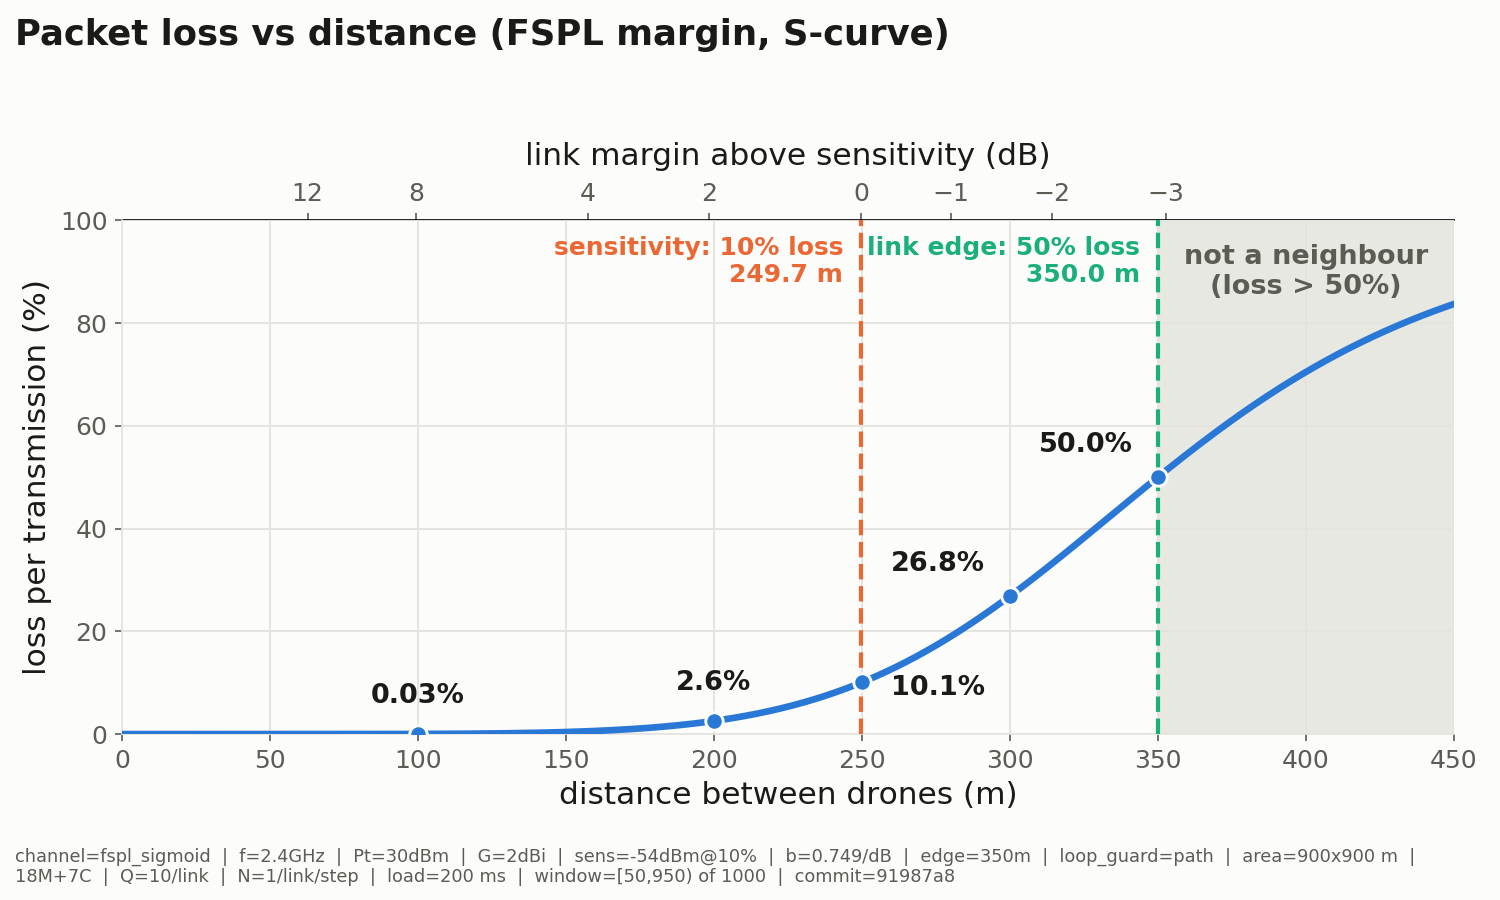
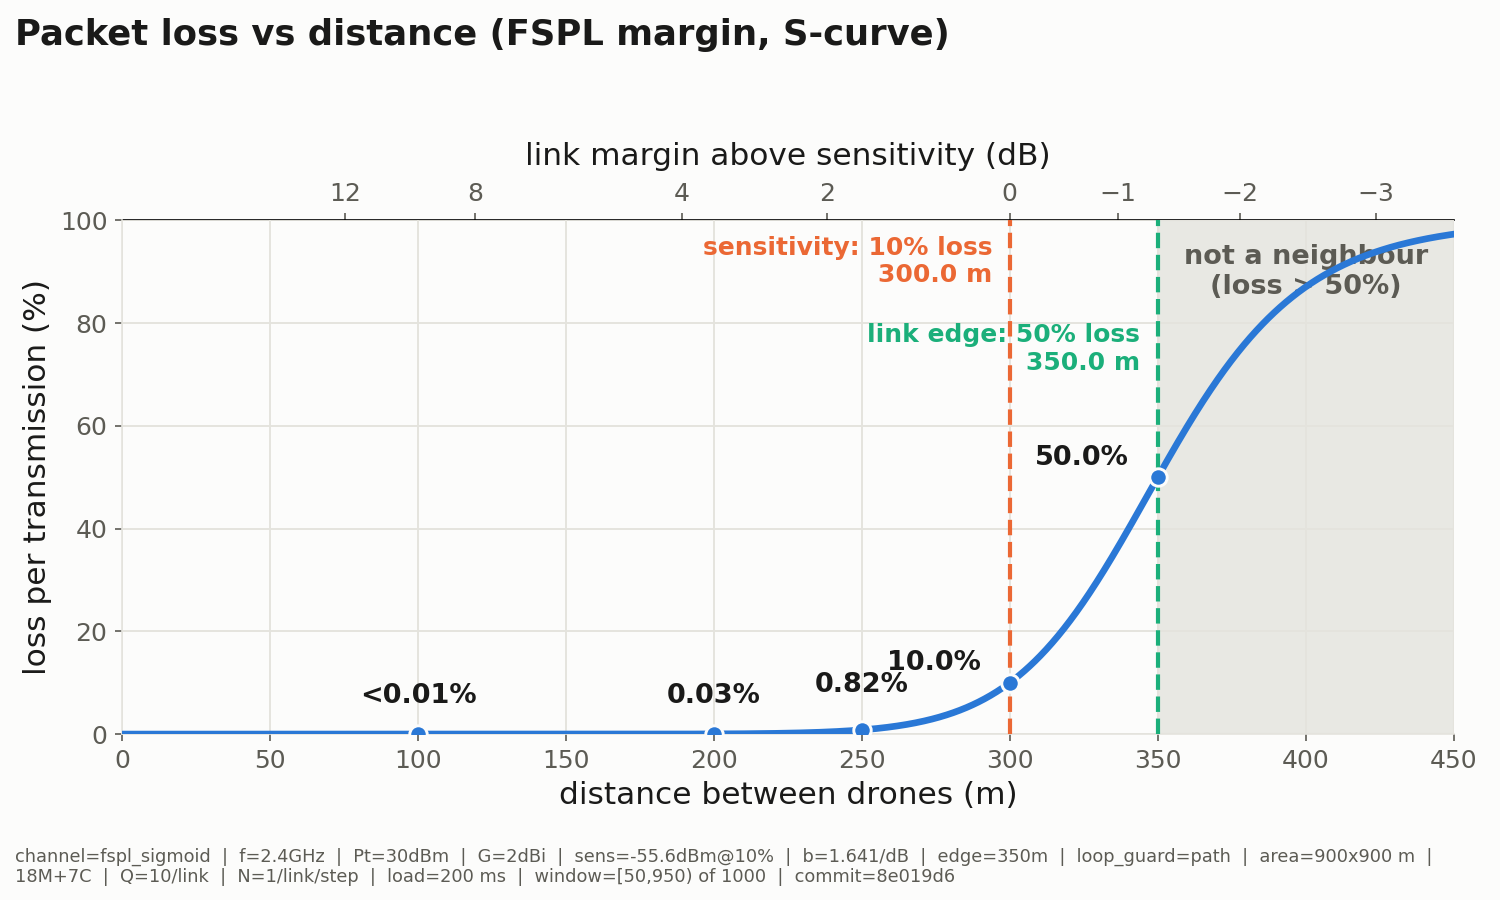
Phase 1a re-run on the steeper curve
160 runs, views_agree in all of them, every output stamped 8e019d6 with no
-dirty.

greedy 13.87 / 13.84 / 28.32 / 48.41 % at 1000/500/200/100 ms, all of it on
the channel at the two light loads; random 63.99 / 63.89 / 63.79 / 64.09 %.
greedy - random is -50.12 / -50.05 / -35.46 / -15.68 points, greedy lower on
20/20 placements at every load.

Every one of those 1280 fields is bit-identical to the "300" rows of the
check_curve run, largest difference exactly 0 — so refitting (A, b) against
the old sensitivity and moving the sensitivity with A = 9 are the same curve
in floating point, not just in algebra.

The edge scan's geometry columns are bit-identical to the old curve, which
is the point: the 350 m edge did not move, so no layout did either.

CLAUDE.md's Status now says plainly that Phase 1b is stale until the RL
agent is retrained, and the working-load paragraph carries the new cause
split (at 200 ms queue_full 14.51% against channel 13.81%).

diff --git a/CLAUDE.md b/CLAUDE.md
@@ -142,12 +142,12 @@ not to be reused, and the same holds for the Phase-2 agents.
   where the network is congested (queue_full drops are a real part of
   the loss) but not yet saturated (greedy beats random on every
   placement). Chosen by the team after running all four loads, and
-  re-checked after the channel and the greedy change: at 200 ms
-  greedy loses 10.29% of its packets to full queues while the channel
-  is still the main cause (24.56%); at 100 ms full queues take over
-  (29.05% against 23.68%). Greedy beats random on 20/20 placements at
-  every load, so the old "18/20 at 100 ms" saturation argument no
-  longer applies under classic greedy.
+  re-checked after the channel, the greedy and the curve changes: at
+  200 ms greedy loses 14.51% of its packets to full queues against
+  13.81% on the channel, so queues and the channel cost about the same;
+  at 100 ms full queues dominate (35.05% against 13.35%). Greedy beats
+  random on 20/20 placements at every load, so the old "18/20 at 100 ms"
+  saturation argument no longer applies under classic greedy.
 - Seeds: separate placement, channel/traffic and routing streams;
   greedy and random run on identical placement and traffic.
 - Neighbor knowledge: each drone knows its neighbors' positions and
@@ -206,34 +206,37 @@ not to be reused, and the same holds for the Phase-2 agents.
              does not overwrite the previous models.
 
 ## Status
-Phase 1a and Phase 1b are COMPLETE on the new channel. Everything in
-out/ is a current result; every figure and CSV carries the new stamp.
+PHASE 1 IS BEING REDONE on the steeper curve (10% at 300 m). Phase 1a is
+re-run and current. Phase 1b is NOT: the RL models in out/models/ were
+trained on the old curve, so every 1b number and figure in out/ is stale
+until the retraining finishes.
 
-Headline, 50 TEST layouts at 200 ms, mean % of packets created:
-  rl 22.29   rate 24.70   greedy 32.05   random 74.17
-  rl - rate: -2.40 points, lower on 40 of 50 layouts, p < 0.0001
-    (exact two-sided sign test and paired t-test)
-At 500 ms: rl 12.56, rate 15.80, greedy 24.58, random 74.28; rl - rate
--3.24 points, 47/50, p < 0.0001.
+Phase 1a, 20 layouts, mean % of packets created (out/1a_summary.csv):
+  greedy  13.87 / 13.84 / 28.32 / 48.41  at 1000/500/200/100 ms
+          all channel at the two light loads; at 200 ms channel 13.81 and
+          queue_full 14.51; at 100 ms channel 13.35 and queue_full 35.05
+  random  63.99 / 63.89 / 63.79 / 64.09
+          channel ~38.6, dead_end ~5.9, hop_limit ~19.1
+  greedy - random: -50.12 / -50.05 / -35.46 / -15.68 points, greedy lower
+    on 20/20 placements at every load.
+  Hops per delivered packet: greedy 1.55-1.71, random ~4.88.
 
-Supporting checks, all done on the new channel:
-- Loop guard: "path" loses fewer packets than "previous" for random
-  (-4.53 points at both loads), rate (-2.28 / -5.34) and rl (-2.14 /
-  -3.48), all p < 0.0001; greedy is identical under both, on every
-  layout. rl was trained separately under each guard, so no model is
-  evaluated under a guard it did not train with.
-- Channel diagnosis: of rl's channel losses, 45.6% were geometry-forced,
-  7.1% congestion-forced and 47.3% had a cleaner idle option; within
-  that last group 99.95% were trade-offs where the cleaner link had a
-  worse delivery rate. (out/1b_channel_diagnosis.csv)
-- Queue size Q = 5 / 10 / 20: rl beats rate at every Q. Q = 10
-  reproduces the committed results to 1e-12.
+Supporting checks on the new curve:
+- Edge scan: every geometry column is bit-identical to the old curve, as
+  it must be — the 350 m edge did not move. Only b and the loss columns
+  changed. The 300 m row now has no curve at all and its curve columns
+  are blank. (out/edge_scan.csv)
 - Range check: at the 350 m edge, 99.7% of M-drones have a path to the
-  GS and 4.0% of random layouts strand at least one.
+  GS and 4.0% of random layouts strand at least one. A "good" link
+  (under 10% loss) now means 300 m, giving 6.18 good neighbours per
+  drone. (out/range_check.csv)
 
-Next: the rest of the written report, then Phase 2. Sections 4 and
-7-9 of docs/report/phase1_report.md and its citation list are current;
-sections 1, 2, 3, 5, 6, 10 and 12 are written after Phase 2.
+Stale until the retraining lands: out/1b_*, out/queue_size_*, every 1b
+figure, and sections 7-9 of the report.
+
+Next: retrain rl under both loop guards, re-run the 1b checks, then
+rewrite the report. Sections 1, 2, 3, 5, 6, 10 and 12 of the report are
+written after Phase 2.
 
 ## Open questions (do NOT decide these; ask)
 - Whether LOOP_GUARD stays "path" (the header-carried visited list);
